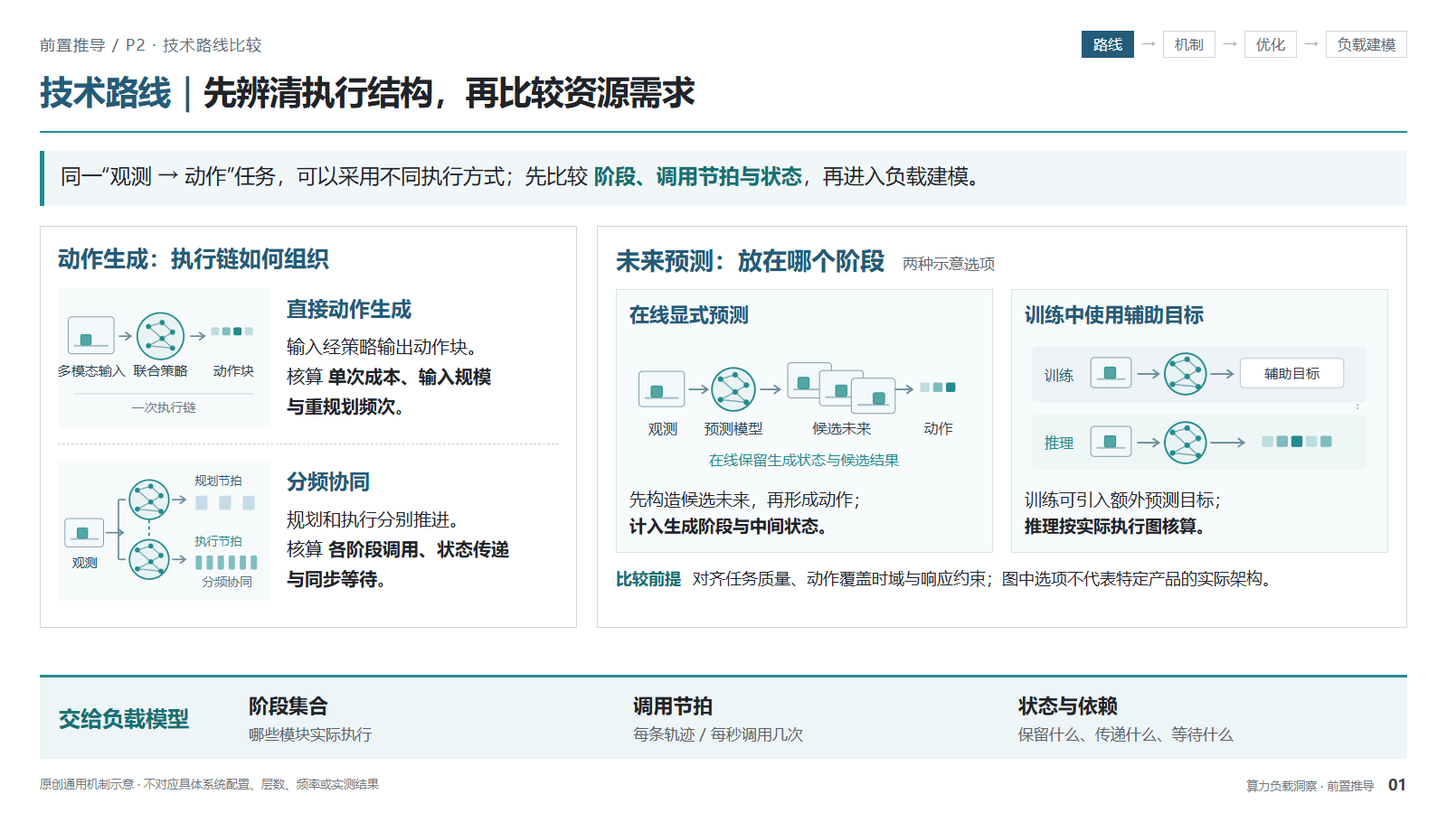
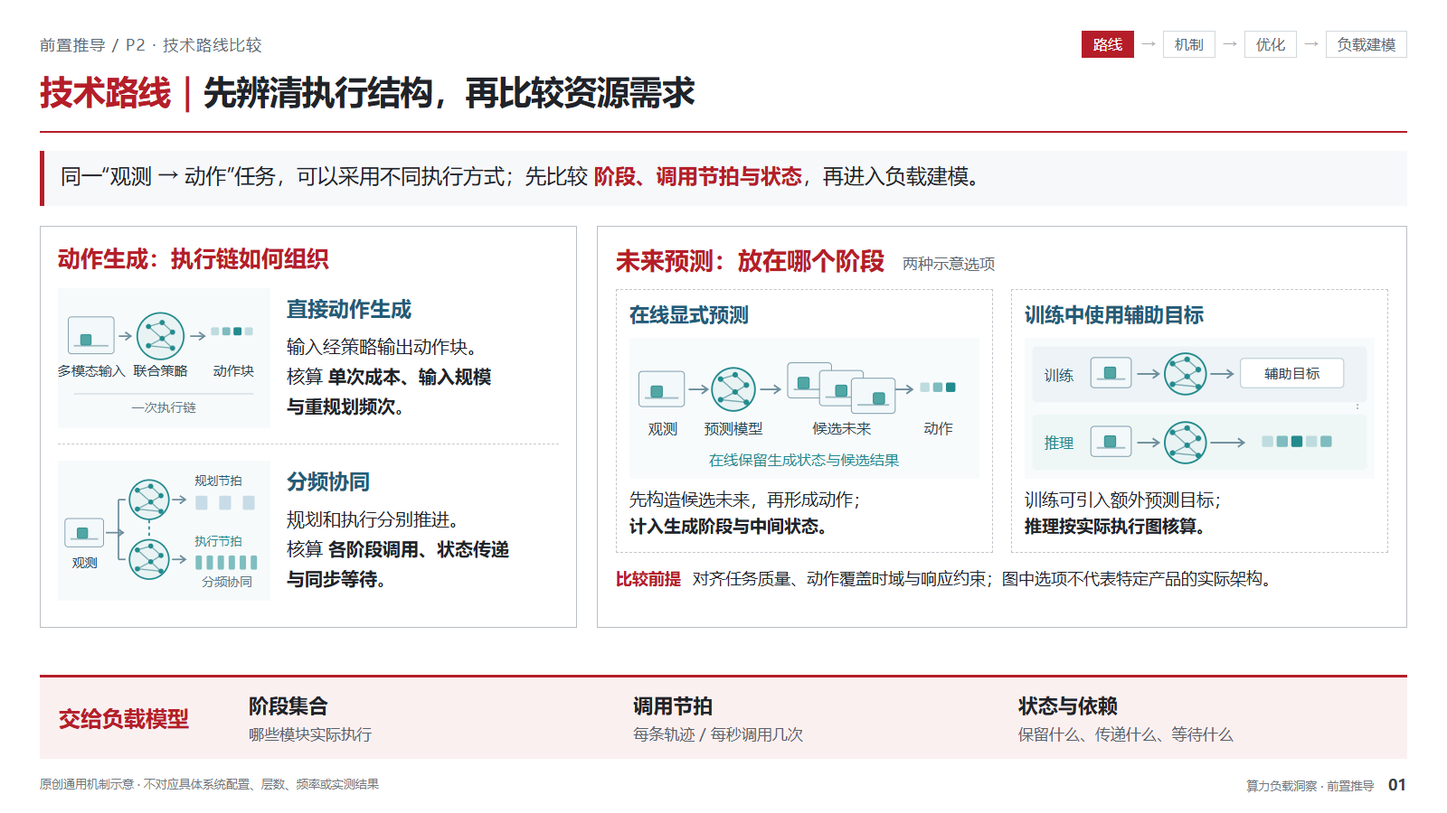
Restore original red-and-white theme while retaining redrawn figures

diff --git a/assets/prelude-examples.html b/assets/prelude-examples.html
@@ -9,7 +9,7 @@
 dialog{padding:0;border:0;width:min(1400px,94vw);max-width:94vw;height:min(840px,94vh);max-height:94vh;background:#fff;box-shadow:0 20px 90px #0005}dialog::backdrop{background:#1a202adc}.modal-head{height:64px;border-bottom:1px solid #ddd;display:flex;justify-content:space-between;align-items:center;gap:15px;padding:0 22px}.modal-head strong{font-size:19px}.modal-head button{padding:7px 15px;border:1px solid #bbb;background:#fff;border-radius:4px}.modal-image{height:calc(100% - 108px);padding:22px;background:#f5f6f7;display:flex;justify-content:center;align-items:center}.modal-image svg{max-width:100%;height:100%;width:100%}.modal-foot{height:44px;display:flex;align-items:center;justify-content:space-between;padding:0 22px;color:#676e75;font-size:15px}.modal-foot button{border:0;background:none;color:var(--red);text-decoration:underline}.capture .toolbar{display:none}.capture .stage{padding:0}.capture .slide{box-shadow:none}.capture{background:#fff}.capture .zoom-hint{display:none}@media print{@page{size:16in 9in;margin:0}body{background:white}.toolbar,.modal{display:none}.stage{display:block;padding:0}.canvas-wrap{width:1600px!important;height:auto!important}.slide{position:relative;display:block!important;transform:none!important;box-shadow:none;break-after:page}.zoom-hint{display:none}}
 
 body{font-family:"Microsoft YaHei UI","Microsoft YaHei",sans-serif}
-:root{--blue:#245b78;--red:#245b78;--pale:#edf5f6}.steps .current{background:#245b78}.rule{background:#238b8e}.insight{border-color:#238b8e;background:#f1f7f8}.insight b{color:#176f73}.panel{border-color:#cbd6db}.panel h2{color:#245b78}.handoff{border-color:#238b8e}.handoff .label{color:#176f73}.figure{background:#f7fafb}.figure svg{overflow:hidden}.route-row .figure{height:155px}.route-copy p{font-size:20px}.wam-sub{background:#f8fbfc;border:1px solid #d8e4e7}.wam-sub .figure{height:156px;background:#f8fbfc}.wam-sub p{margin-top:9px}.route-condition strong{color:#176f73}.opt .fig-wrap{height:216px;background:#f6fafb}.opt .implication{line-height:1.45;font-size:19px}.opt .mini-label{color:#6c7c85}.opt h2{font-size:26px}.optimizations{height:461px}.opt .implication b{color:#176f73}.opt .change{font-size:19px}.modal-foot{justify-content:center}.modal-image{background:#f6fafb}.newflow{display:grid;grid-template-columns:300px 856px 312px;gap:22px;height:439px}.flow-panel{padding:18px;border:1px solid #cad8de}.flow-panel h2{display:flex;gap:10px;align-items:center;font-size:23px;margin:0 0 10px;color:#243b4c}.flow-panel .number{background:#245b78}.flow-panel p{font-size:19px;line-height:1.6;margin:12px 0 0}.flow-panel .tag{font-size:16px;background:#edf4f6;color:#245b78;padding:8px 10px;text-align:center}.obs-figure{height:189px;margin:9px 0 7px}.mech-figure{height:295px;margin-top:8px}.out-figure{height:220px;margin-top:8px}.flow-note{display:flex;justify-content:space-between;gap:12px;font-size:17px;color:#566d78;margin-top:13px}.flow-note span{padding:7px 10px;background:#f1f6f8}.step-title{font-size:23px}.formula-handoff{min-height:105px}.source-tag{font-size:15px}.figure .zoom-hint{font-size:13px}.raster-free{color:#238b8e;font-size:14px;letter-spacing:0}.diagram-label{color:#657e88;font-size:15px;line-height:1.5;margin-top:8px}.route-left h2{font-size:25px}.fullwidth-insight{display:block}
+:root{--blue:#245b78;--red:#b51e29;--pale:#fbf0f0}.steps .current{background:#b51e29}.rule{background:#b51e29}.insight{border-color:#b51e29;background:#f7f8fa}.insight b{color:#b51e29}.panel{border-color:#babfc5}.panel h2{color:#b51e29}.handoff{border-color:#b51e29}.handoff .label{color:#b51e29}.figure{background:#f7fafb}.figure svg{overflow:hidden}.route-row .figure{height:155px}.route-copy p{font-size:20px}.wam-sub{background:#fff;border:1px dashed #c2c6cb}.wam-sub .figure{height:156px;background:#f8fbfc}.wam-sub p{margin-top:9px}.route-condition strong{color:#b51e29}.opt .fig-wrap{height:216px;background:#f6fafb}.opt .implication{line-height:1.45;font-size:19px}.opt .mini-label{color:#6c7c85}.opt h2{font-size:26px}.optimizations{height:461px}.opt .implication b{color:#b51e29}.opt .change{font-size:19px}.modal-foot{justify-content:center}.modal-image{background:#f6fafb}.newflow{display:grid;grid-template-columns:300px 856px 312px;gap:22px;height:439px}.flow-panel{padding:18px;border:1px solid #bfc4c9}.flow-panel h2{display:flex;gap:10px;align-items:center;font-size:23px;margin:0 0 10px;color:#202329}.flow-panel .number{background:#b51e29}.flow-panel p{font-size:19px;line-height:1.6;margin:12px 0 0}.flow-panel .tag{font-size:16px;background:#edf4f6;color:#245b78;padding:8px 10px;text-align:center}.obs-figure{height:189px;margin:9px 0 7px}.mech-figure{height:295px;margin-top:8px}.out-figure{height:220px;margin-top:8px}.flow-note{display:flex;justify-content:space-between;gap:12px;font-size:17px;color:#566d78;margin-top:13px}.flow-note span{padding:7px 10px;background:#f1f6f8}.step-title{font-size:23px}.formula-handoff{min-height:105px}.source-tag{font-size:15px}.figure .zoom-hint{font-size:13px}.raster-free{color:#238b8e;font-size:14px;letter-spacing:0}.diagram-label{color:#657e88;font-size:15px;line-height:1.5;margin-top:8px}.route-left h2{font-size:25px}.fullwidth-insight{display:block}
 </style></head><body><header class="toolbar"><div class="brand">算力负载洞察 · 原创机制图<small>通用机制示意 · 点击图示可放大</small></div><nav class="controls" aria-label="幻灯片导航"><button id="prev" aria-label="上一页">←</button><button data-page="1">01 路线</button><button data-page="2">02 机制</button><button data-page="3">03 优化</button><button id="next" aria-label="下一页">→</button><button id="print">打印 / PDF</button></nav></header><main class="stage"><div class="canvas-wrap"><section class="slide active" id="slide1" aria-label="第1页 P2 · 技术路线比较"><div class="eyebrow"><span>前置推导 / P2 · 技术路线比较</span><div class="steps"><span class="current">路线</span><i>→</i><span class="">机制</span><i>→</i><span class="">优化</span><i>→</i><span>负载建模</span></div></div><h1><em>技术路线｜</em>先辨清执行结构，再比较资源需求</h1><div class="rule"></div><div class="insight fullwidth-insight">同一“观测 → 动作”任务，可以采用不同执行方式；先比较 <b>阶段、调用节拍与状态</b>，再进入负载建模。</div><div class="main routes"><div class="panel route-left"><h2>动作生成：执行链如何组织</h2><div class="route-row"><button class="figure" data-title="直接动作生成：多模态输入经联合策略输出动作块" aria-label="放大：直接动作生成：多模态输入经联合策略输出动作块"><svg xmlns="http://www.w3.org/2000/svg" viewBox="0 0 265 165" role="img"><style>text{font-family:Microsoft YaHei,Arial,sans-serif;fill:#294451}</style><rect x="13" y="31" width="57" height="46" rx="4" fill="#f3f8fa" stroke="#7798a8"/><line x1="20" y1="67" x2="63" y2="67" stroke="#9fbbc4" stroke-width="2"/><rect x="28.45" y="53" width="13" height="13" rx="2" fill="#52a6a3" stroke="#238b8e"/><circle cx="128" cy="55" r="29" fill="#e9f3f4" stroke="#238b8e" stroke-width="2"/><line x1="113" y1="43" x2="130" y2="38" stroke="#78aab0" stroke-width="1.5"/><line x1="113" y1="43" x2="130" y2="58" stroke="#78aab0" stroke-width="1.5"/><line x1="113" y1="67" x2="130" y2="58" stroke="#78aab0" stroke-width="1.5"/><line x1="113" y1="67" x2="143" y2="70" stroke="#78aab0" stroke-width="1.5"/><line x1="130" y1="38" x2="143" y2="50" stroke="#78aab0" stroke-width="1.5"/><line x1="130" y1="58" x2="143" y2="50" stroke="#78aab0" stroke-width="1.5"/><line x1="130" y1="58" x2="143" y2="70" stroke="#78aab0" stroke-width="1.5"/><circle cx="113" cy="43" r="3.2" fill="#238b8e"/><circle cx="113" cy="67" r="3.2" fill="#238b8e"/><circle cx="130" cy="38" r="3.2" fill="#238b8e"/><circle cx="130" cy="58" r="3.2" fill="#238b8e"/><circle cx="143" cy="50" r="3.2" fill="#238b8e"/><circle cx="143" cy="70" r="3.2" fill="#238b8e"/><rect x="191" y="44" width="10" height="10" rx="2" fill="#bedcdf" stroke="none"/><rect x="205" y="44" width="10" height="10" rx="2" fill="#7ebcbf" stroke="none"/><rect x="219" y="44" width="10" height="10" rx="2" fill="#238b8e" stroke="none"/><rect x="233" y="44" width="10" height="10" rx="2" fill="#bedcdf" stroke="none"/><line x1="76" y1="55" x2="91" y2="55" stroke="#6c8d9c" stroke-width="2"/><path d="M84,50 L91,55 L84,60" fill="none" stroke="#6c8d9c" stroke-width="2"/><line x1="165" y1="55" x2="183" y2="55" stroke="#6c8d9c" stroke-width="2"/><path d="M176,50 L183,55 L176,60" fill="none" stroke="#6c8d9c" stroke-width="2"/><text x="42" y="104" text-anchor="middle" font-size="17" font-weight="400" style="fill:#294451">多模态输入</text><text x="128" y="104" text-anchor="middle" font-size="17" font-weight="400" style="fill:#294451">联合策略</text><text x="219" y="104" text-anchor="middle" font-size="17" font-weight="400" style="fill:#294451">动作块</text><line x1="20" y1="127" x2="244" y2="127" stroke="#bfd0d7" stroke-width="1"/><text x="132" y="150" text-anchor="middle" font-size="16" font-weight="400" style="fill:#5d7986">一次执行链</text></svg><span class="zoom-hint">↗ 放大示意图</span></button><div class="route-copy"><h3>直接动作生成</h3><p>输入经策略输出动作块。<br>核算 <strong>单次成本、输入规模<br>与重规划频次</strong>。</p></div></div><div class="route-row"><button class="figure" data-title="分频协同：规划与控制采用不同节拍" aria-label="放大：分频协同：规划与控制采用不同节拍"><svg xmlns="http://www.w3.org/2000/svg" viewBox="0 0 270 165" role="img"><style>text{font-family:Microsoft YaHei,Arial,sans-serif;fill:#294451}</style><rect x="9" y="67" width="49" height="36" rx="4" fill="#f3f8fa" stroke="#7798a8"/><line x1="16" y1="93" x2="51" y2="93" stroke="#9fbbc4" stroke-width="2"/><rect x="24.75" y="79" width="13" height="13" rx="2" fill="#52a6a3" stroke="#238b8e"/><line x1="61" y1="85" x2="83" y2="85" stroke="#6c8d9c" stroke-width="2"/><path d="M76,80 L83,85 L76,90" fill="none" stroke="#6c8d9c" stroke-width="2"/><circle cx="116" cy="43" r="25" fill="#e9f3f4" stroke="#238b8e" stroke-width="2"/><line x1="101" y1="31" x2="118" y2="26" stroke="#78aab0" stroke-width="1.5"/><line x1="101" y1="31" x2="118" y2="46" stroke="#78aab0" stroke-width="1.5"/><line x1="101" y1="55" x2="118" y2="46" stroke="#78aab0" stroke-width="1.5"/><line x1="101" y1="55" x2="131" y2="58" stroke="#78aab0" stroke-width="1.5"/><line x1="118" y1="26" x2="131" y2="38" stroke="#78aab0" stroke-width="1.5"/><line x1="118" y1="46" x2="131" y2="38" stroke="#78aab0" stroke-width="1.5"/><line x1="118" y1="46" x2="131" y2="58" stroke="#78aab0" stroke-width="1.5"/><circle cx="101" cy="31" r="3.2" fill="#238b8e"/><circle cx="101" cy="55" r="3.2" fill="#238b8e"/><circle cx="118" cy="26" r="3.2" fill="#238b8e"/><circle cx="118" cy="46" r="3.2" fill="#238b8e"/><circle cx="131" cy="38" r="3.2" fill="#238b8e"/><circle cx="131" cy="58" r="3.2" fill="#238b8e"/><circle cx="116" cy="119" r="25" fill="#e9f3f4" stroke="#238b8e" stroke-width="2"/><line x1="101" y1="107" x2="118" y2="102" stroke="#78aab0" stroke-width="1.5"/><line x1="101" y1="107" x2="118" y2="122" stroke="#78aab0" stroke-width="1.5"/><line x1="101" y1="131" x2="118" y2="122" stroke="#78aab0" stroke-width="1.5"/><line x1="101" y1="131" x2="131" y2="134" stroke="#78aab0" stroke-width="1.5"/><line x1="118" y1="102" x2="131" y2="114" stroke="#78aab0" stroke-width="1.5"/><line x1="118" y1="122" x2="131" y2="114" stroke="#78aab0" stroke-width="1.5"/><line x1="118" y1="122" x2="131" y2="134" stroke="#78aab0" stroke-width="1.5"/><circle cx="101" cy="107" r="3.2" fill="#238b8e"/><circle cx="101" cy="131" r="3.2" fill="#238b8e"/><circle cx="118" cy="102" r="3.2" fill="#238b8e"/><circle cx="118" cy="122" r="3.2" fill="#238b8e"/><circle cx="131" cy="114" r="3.2" fill="#238b8e"/><circle cx="131" cy="134" r="3.2" fill="#238b8e"/><line x1="77" y1="43" x2="77" y2="119" stroke="#6c8d9c" stroke-width="2"/><line x1="77" y1="43" x2="86" y2="43" stroke="#6c8d9c" stroke-width="2"/><line x1="77" y1="119" x2="86" y2="119" stroke="#6c8d9c" stroke-width="2"/><line x1="116" y1="69" x2="116" y2="89" stroke="#238b8e" stroke-width="2" stroke-dasharray="4 4"/><text x="174" y="25" text-anchor="start" font-size="15" font-weight="400" style="fill:#245b78">规划节拍</text><text x="174" y="101" text-anchor="start" font-size="15" font-weight="400" style="fill:#238b8e">执行节拍</text><line x1="145" y1="43" x2="162" y2="43" stroke="#6c8d9c" stroke-width="2"/><path d="M155,38 L162,43 L155,48" fill="none" stroke="#6c8d9c" stroke-width="2"/><line x1="145" y1="119" x2="162" y2="119" stroke="#6c8d9c" stroke-width="2"/><path d="M155,114 L162,119 L155,124" fill="none" stroke="#6c8d9c" stroke-width="2"/><rect x="175" y="38" width="15" height="18" rx="2" fill="#c7dce7" stroke="none"/><rect x="205" y="38" width="15" height="18" rx="2" fill="#c7dce7" stroke="none"/><rect x="235" y="38" width="15" height="18" rx="2" fill="#c7dce7" stroke="none"/><rect x="175" y="114" width="8" height="18" rx="2" fill="#7fbec0" stroke="none"/><rect x="189" y="114" width="8" height="18" rx="2" fill="#7fbec0" stroke="none"/><rect x="203" y="114" width="8" height="18" rx="2" fill="#7fbec0" stroke="none"/><rect x="217" y="114" width="8" height="18" rx="2" fill="#7fbec0" stroke="none"/><rect x="231" y="114" width="8" height="18" rx="2" fill="#7fbec0" stroke="none"/><rect x="245" y="114" width="8" height="18" rx="2" fill="#7fbec0" stroke="none"/><text x="34" y="129" text-anchor="middle" font-size="16" font-weight="400" style="fill:#294451">观测</text><text x="215" y="153" text-anchor="middle" font-size="16" font-weight="400" style="fill:#5d7986">分频协同</text></svg><span class="zoom-hint">↗ 放大示意图</span></button><div class="route-copy"><h3>分频协同</h3><p>规划和执行分别推进。<br>核算 <strong>各阶段调用、状态传递<br>与同步等待</strong>。</p></div></div></div><div class="panel"><h2>未来预测：放在哪个阶段 <span>两种示意选项</span></h2><div class="wam-grid"><div class="wam-sub"><h3>在线显式预测</h3><button class="figure" data-title="在线预测：观测、预测模型、候选未来与动作选择" aria-label="放大：在线预测：观测、预测模型、候选未来与动作选择"><svg xmlns="http://www.w3.org/2000/svg" viewBox="0 0 405 164" role="img"><style>text{font-family:Microsoft YaHei,Arial,sans-serif;fill:#294451}</style><rect x="10" y="39" width="53" height="41" rx="4" fill="#f3f8fa" stroke="#7798a8"/><line x1="17" y1="70" x2="56" y2="70" stroke="#9fbbc4" stroke-width="2"/><rect x="24.28" y="56" width="13" height="13" rx="2" fill="#52a6a3" stroke="#238b8e"/><line x1="68" y1="60" x2="90" y2="60" stroke="#6c8d9c" stroke-width="2"/><path d="M83,55 L90,60 L83,65" fill="none" stroke="#6c8d9c" stroke-width="2"/><circle cx="120" cy="60" r="25" fill="#e9f3f4" stroke="#238b8e" stroke-width="2"/><line x1="105" y1="48" x2="122" y2="43" stroke="#78aab0" stroke-width="1.5"/><line x1="105" y1="48" x2="122" y2="63" stroke="#78aab0" stroke-width="1.5"/><line x1="105" y1="72" x2="122" y2="63" stroke="#78aab0" stroke-width="1.5"/><line x1="105" y1="72" x2="135" y2="75" stroke="#78aab0" stroke-width="1.5"/><line x1="122" y1="43" x2="135" y2="55" stroke="#78aab0" stroke-width="1.5"/><line x1="122" y1="63" x2="135" y2="55" stroke="#78aab0" stroke-width="1.5"/><line x1="122" y1="63" x2="135" y2="75" stroke="#78aab0" stroke-width="1.5"/><circle cx="105" cy="48" r="3.2" fill="#238b8e"/><circle cx="105" cy="72" r="3.2" fill="#238b8e"/><circle cx="122" cy="43" r="3.2" fill="#238b8e"/><circle cx="122" cy="63" r="3.2" fill="#238b8e"/><circle cx="135" cy="55" r="3.2" fill="#238b8e"/><circle cx="135" cy="75" r="3.2" fill="#238b8e"/><line x1="151" y1="60" x2="174" y2="60" stroke="#6c8d9c" stroke-width="2"/><path d="M167,55 L174,60 L167,65" fill="none" stroke="#6c8d9c" stroke-width="2"/><rect x="183" y="29" width="51" height="41" rx="4" fill="#f3f8fa" stroke="#7798a8"/><line x1="190" y1="60" x2="227" y2="60" stroke="#9fbbc4" stroke-width="2"/><rect x="195.0" y="46" width="13" height="13" rx="2" fill="#52a6a3" stroke="#238b8e"/><rect x="220" y="38" width="51" height="41" rx="4" fill="#f3f8fa" stroke="#7798a8"/><line x1="227" y1="69" x2="264" y2="69" stroke="#9fbbc4" stroke-width="2"/><rect x="238.8" y="55" width="13" height="13" rx="2" fill="#52a6a3" stroke="#238b8e"/><rect x="257" y="47" width="51" height="41" rx="4" fill="#f3f8fa" stroke="#7798a8"/><line x1="264" y1="78" x2="301" y2="78" stroke="#9fbbc4" stroke-width="2"/><rect x="282.6" y="64" width="13" height="13" rx="2" fill="#52a6a3" stroke="#238b8e"/><line x1="308" y1="60" x2="328" y2="60" stroke="#6c8d9c" stroke-width="2"/><path d="M321,55 L328,60 L321,65" fill="none" stroke="#6c8d9c" stroke-width="2"/><rect x="337" y="52" width="11" height="11" rx="2" fill="#bedcdf" stroke="none"/><rect x="352" y="52" width="11" height="11" rx="2" fill="#7ebcbf" stroke="none"/><rect x="367" y="52" width="11" height="11" rx="2" fill="#238b8e" stroke="none"/><text x="38" y="111" text-anchor="middle" font-size="17" font-weight="400" style="fill:#294451">观测</text><text x="120" y="111" text-anchor="middle" font-size="17" font-weight="400" style="fill:#294451">预测模型</text><text x="246" y="111" text-anchor="middle" font-size="17" font-weight="400" style="fill:#294451">候选未来</text><text x="358" y="111" text-anchor="middle" font-size="17" font-weight="400" style="fill:#294451">动作</text><text x="202" y="148" text-anchor="middle" font-size="17" font-weight="400" style="fill:#238b8e">在线保留生成状态与候选结果</text></svg><span class="zoom-hint">↗ 放大示意图</span></button><p>先构造候选未来，再形成动作；<br><b>计入生成阶段与中间状态。</b></p></div><div class="wam-sub"><h3>训练中使用辅助目标</h3><button class="figure" data-title="训练与推理分开表示：训练辅助目标不自动进入在线执行" aria-label="放大：训练与推理分开表示：训练辅助目标不自动进入在线执行"><svg xmlns="http://www.w3.org/2000/svg" viewBox="0 0 405 164" role="img"><style>text{font-family:Microsoft YaHei,Arial,sans-serif;fill:#294451}</style><rect x="8" y="10" width="389" height="65" rx="5" fill="#edf3f6" stroke="none"/><text x="39" y="49" text-anchor="middle" font-size="17" font-weight="400" style="fill:#245b78">训练</text><rect x="76" y="23" width="47" height="35" rx="4" fill="#f3f8fa" stroke="#7798a8"/><line x1="83" y1="48" x2="116" y2="48" stroke="#9fbbc4" stroke-width="2"/><rect x="91.9" y="34" width="13" height="13" rx="2" fill="#52a6a3" stroke="#238b8e"/><line x1="130" y1="42" x2="155" y2="42" stroke="#6c8d9c" stroke-width="2"/><path d="M148,37 L155,42 L148,47" fill="none" stroke="#6c8d9c" stroke-width="2"/><circle cx="186" cy="42" r="24" fill="#e9f3f4" stroke="#238b8e" stroke-width="2"/><line x1="171" y1="30" x2="188" y2="25" stroke="#78aab0" stroke-width="1.5"/><line x1="171" y1="30" x2="188" y2="45" stroke="#78aab0" stroke-width="1.5"/><line x1="171" y1="54" x2="188" y2="45" stroke="#78aab0" stroke-width="1.5"/><line x1="171" y1="54" x2="201" y2="57" stroke="#78aab0" stroke-width="1.5"/><line x1="188" y1="25" x2="201" y2="37" stroke="#78aab0" stroke-width="1.5"/><line x1="188" y1="45" x2="201" y2="37" stroke="#78aab0" stroke-width="1.5"/><line x1="188" y1="45" x2="201" y2="57" stroke="#78aab0" stroke-width="1.5"/><circle cx="171" cy="30" r="3.2" fill="#238b8e"/><circle cx="171" cy="54" r="3.2" fill="#238b8e"/><circle cx="188" cy="25" r="3.2" fill="#238b8e"/><circle cx="188" cy="45" r="3.2" fill="#238b8e"/><circle cx="201" cy="37" r="3.2" fill="#238b8e"/><circle cx="201" cy="57" r="3.2" fill="#238b8e"/><line x1="215" y1="42" x2="241" y2="42" stroke="#6c8d9c" stroke-width="2"/><path d="M234,37 L241,42 L234,47" fill="none" stroke="#6c8d9c" stroke-width="2"/><rect x="250" y="24" width="120" height="34" rx="4" fill="#fff" stroke="#b1c6cf"/><text x="310" y="47" text-anchor="middle" font-size="16" font-weight="400" style="fill:#294451">辅助目标</text><rect x="8" y="89" width="389" height="65" rx="5" fill="#eef7f5" stroke="none"/><text x="39" y="128" text-anchor="middle" font-size="17" font-weight="400" style="fill:#238b8e">推理</text><rect x="76" y="103" width="47" height="35" rx="4" fill="#f3f8fa" stroke="#7798a8"/><line x1="83" y1="128" x2="116" y2="128" stroke="#9fbbc4" stroke-width="2"/><rect x="91.9" y="114" width="13" height="13" rx="2" fill="#52a6a3" stroke="#238b8e"/><line x1="130" y1="122" x2="155" y2="122" stroke="#6c8d9c" stroke-width="2"/><path d="M148,117 L155,122 L148,127" fill="none" stroke="#6c8d9c" stroke-width="2"/><circle cx="186" cy="122" r="24" fill="#e9f3f4" stroke="#238b8e" stroke-width="2"/><line x1="171" y1="110" x2="188" y2="105" stroke="#78aab0" stroke-width="1.5"/><line x1="171" y1="110" x2="188" y2="125" stroke="#78aab0" stroke-width="1.5"/><line x1="171" y1="134" x2="188" y2="125" stroke="#78aab0" stroke-width="1.5"/><line x1="171" y1="134" x2="201" y2="137" stroke="#78aab0" stroke-width="1.5"/><line x1="188" y1="105" x2="201" y2="117" stroke="#78aab0" stroke-width="1.5"/><line x1="188" y1="125" x2="201" y2="117" stroke="#78aab0" stroke-width="1.5"/><line x1="188" y1="125" x2="201" y2="137" stroke="#78aab0" stroke-width="1.5"/><circle cx="171" cy="110" r="3.2" fill="#238b8e"/><circle cx="171" cy="134" r="3.2" fill="#238b8e"/><circle cx="188" cy="105" r="3.2" fill="#238b8e"/><circle cx="188" cy="125" r="3.2" fill="#238b8e"/><circle cx="201" cy="117" r="3.2" fill="#238b8e"/><circle cx="201" cy="137" r="3.2" fill="#238b8e"/><line x1="215" y1="122" x2="254" y2="122" stroke="#6c8d9c" stroke-width="2"/><path d="M247,117 L254,122 L247,127" fill="none" stroke="#6c8d9c" stroke-width="2"/><rect x="275" y="114" width="13" height="13" rx="2" fill="#bedcdf" stroke="none"/><rect x="292" y="114" width="13" height="13" rx="2" fill="#7ebcbf" stroke="none"/><rect x="309" y="114" width="13" height="13" rx="2" fill="#238b8e" stroke="none"/><rect x="326" y="114" width="13" height="13" rx="2" fill="#bedcdf" stroke="none"/><rect x="343" y="114" width="13" height="13" rx="2" fill="#7ebcbf" stroke="none"/><line x1="386" y1="77" x2="386" y2="84" stroke="#9db8c3" stroke-width="2" stroke-dasharray="2 2"/></svg><span class="zoom-hint">↗ 放大示意图</span></button><p>训练可引入额外预测目标；<br><b>推理按实际执行图核算。</b></p></div></div><div class="route-condition"><strong>比较前提</strong><span>对齐任务质量、动作覆盖时域与响应约束；图中选项不代表特定产品的实际架构。</span></div></div></div><div class="handoff route-handoff"><div class="label">交给负载模型</div><div class="body"><div><b>阶段集合</b><small>哪些模块实际执行</small></div><div><b>调用节拍</b><small>每条轨迹 / 每秒调用几次</small></div><div><b>状态与依赖</b><small>保留什么、传递什么、等待什么</small></div></div></div><footer><span>原创通用机制示意 · 不对应具体系统配置、层数、频率或实测结果</span><span>算力负载洞察 · 前置推导 <b>01</b></span></footer></section><section class="slide " id="slide2" aria-label="第2页 P3 · 生成过程拆解"><div class="eyebrow"><span>前置推导 / P3 · 生成过程拆解</span><div class="steps"><span class="">路线</span><i>→</i><span class="current">机制</span><i>→</i><span class="">优化</span><i>→</i><span>负载建模</span></div></div><h1><em>生成机制｜</em>沿输入、迭代和输出拆分工作量</h1><div class="rule"></div><div class="insight fullwidth-insight">以“视频与动作联合生成”的抽象流程为例，分别记录 <b>条件编码、重复生成、解码与后处理</b> 的成本。</div><div class="main newflow"><div class="flow-panel"><h2><span class="number">1</span>条件与观测</h2><div class="tag">任务示意：操作桌面物体</div><div class="obs-figure"><button class="figure" data-title="原创抽象操作场景：相机、机械臂、物体与状态编码" aria-label="放大：原创抽象操作场景：相机、机械臂、物体与状态编码"><svg xmlns="http://www.w3.org/2000/svg" viewBox="0 0 290 241" role="img"><style>text{font-family:Microsoft YaHei,Arial,sans-serif;fill:#294451}</style><rect x="7" y="9" width="276" height="162" rx="8" fill="#f2f8fa" stroke="none"/><path d="M25 129 L230 129 L269 151 L67 151 Z" fill="#d9e6eb" stroke="#a4bbc7"/><line x1="83" y1="128" x2="65" y2="92" stroke="#245b78" stroke-width="14"/><line x1="65" y1="92" x2="127" y2="60" stroke="#245b78" stroke-width="12"/><line x1="127" y1="60" x2="184" y2="94" stroke="#438ba0" stroke-width="9"/><circle cx="83" cy="128" r="9" fill="#fff" stroke="#245b78" stroke-width="3"/><circle cx="65" cy="92" r="10" fill="#fff" stroke="#245b78" stroke-width="3"/><circle cx="127" cy="60" r="9" fill="#fff" stroke="#245b78" stroke-width="3"/><circle cx="184" cy="94" r="6" fill="#fff" stroke="#245b78" stroke-width="3"/><line x1="184" y1="98" x2="184" y2="113" stroke="#245b78" stroke-width="4"/><path d="M174 111 L174 119 M194 111 L194 119 M174 111 L194 111" stroke="#245b78" stroke-width="3" fill="none"/><rect x="180" y="127" width="27" height="22" rx="2" fill="#51a9a4" stroke="#238b8e"/><path d="M37 37 L84 70 L56 102 Z" fill="#b8e0df" fill-opacity=".5"/><rect x="20" y="24" width="35" height="23" rx="4" fill="#245b78" stroke="none"/><circle cx="37" cy="35" r="7" fill="#fff"/><text x="210" y="32" text-anchor="middle" font-size="16" font-weight="400" style="fill:#6b8794">抽象场景</text><text x="145" y="193" text-anchor="middle" font-size="17" font-weight="400" style="fill:#294451">视觉观测 + 任务条件 + 本体状态</text><rect x="30" y="211" width="18" height="18" rx="2" fill="#bedcdf" stroke="none"/><rect x="52" y="211" width="18" height="18" rx="2" fill="#7ebcbf" stroke="none"/><rect x="74" y="211" width="18" height="18" rx="2" fill="#238b8e" stroke="none"/><rect x="96" y="211" width="18" height="18" rx="2" fill="#bedcdf" stroke="none"/><rect x="118" y="211" width="18" height="18" rx="2" fill="#7ebcbf" stroke="none"/><rect x="140" y="211" width="18" height="18" rx="2" fill="#238b8e" stroke="none"/><rect x="162" y="211" width="18" height="18" rx="2" fill="#bedcdf" stroke="none"/><rect x="184" y="211" width="18" height="18" rx="2" fill="#7ebcbf" stroke="none"/></svg><span class="zoom-hint">↗ 放大示意图</span></button></div><p>输入形态决定编码成本：<br><b>观测数量、表示规模<br>与本体状态维度</b>。</p><div class="diagram-label">场景为几何示意，不代表具体设备。</div></div><div class="flow-panel"><h2><span class="number">2</span>表示更新与重复生成</h2><div class="mech-figure"><button class="figure" data-title="通用生成流程：条件编码、初始化表示、重复模型执行与状态更新" aria-label="放大：通用生成流程：条件编码、初始化表示、重复模型执行与状态更新"><svg xmlns="http://www.w3.org/2000/svg" viewBox="0 0 790 344" role="img"><style>text{font-family:Microsoft YaHei,Arial,sans-serif;fill:#294451}</style><rect x="12" y="8" width="768" height="40" rx="5" fill="#edf4f7" stroke="none"/><text x="393" y="35" text-anchor="middle" font-size="20" font-weight="400" style="fill:#294451">条件编码：文本 / 视觉 / 状态</text><line x1="390" y1="49" x2="390" y2="74" stroke="#6a939e" stroke-width="2"/><path d="M384 67 L390 75 L396 67" fill="none" stroke="#6a939e" stroke-width="2"/><rect x="28" y="111" width="14" height="14" rx="1" fill="#a5b7c1" stroke="none"/><rect x="45" y="111" width="14" height="14" rx="1" fill="#a5b7c1" stroke="none"/><rect x="62" y="111" width="14" height="14" rx="1" fill="#a5b7c1" stroke="none"/><rect x="79" y="111" width="14" height="14" rx="1" fill="#6d91a4" stroke="none"/><rect x="96" y="111" width="14" height="14" rx="1" fill="#6d91a4" stroke="none"/><rect x="113" y="111" width="14" height="14" rx="1" fill="#ccd9e0" stroke="none"/><rect x="28" y="128" width="14" height="14" rx="1" fill="#6d91a4" stroke="none"/><rect x="45" y="128" width="14" height="14" rx="1" fill="#ccd9e0" stroke="none"/><rect x="62" y="128" width="14" height="14" rx="1" fill="#ccd9e0" stroke="none"/><rect x="79" y="128" width="14" height="14" rx="1" fill="#a5b7c1" stroke="none"/><rect x="96" y="128" width="14" height="14" rx="1" fill="#a5b7c1" stroke="none"/><rect x="113" y="128" width="14" height="14" rx="1" fill="#a5b7c1" stroke="none"/><rect x="28" y="145" width="14" height="14" rx="1" fill="#a5b7c1" stroke="none"/><rect x="45" y="145" width="14" height="14" rx="1" fill="#a5b7c1" stroke="none"/><rect x="62" y="145" width="14" height="14" rx="1" fill="#6d91a4" stroke="none"/><rect x="79" y="145" width="14" height="14" rx="1" fill="#6d91a4" stroke="none"/><rect x="96" y="145" width="14" height="14" rx="1" fill="#ccd9e0" stroke="none"/><rect x="113" y="145" width="14" height="14" rx="1" fill="#ccd9e0" stroke="none"/><rect x="28" y="162" width="14" height="14" rx="1" fill="#ccd9e0" stroke="none"/><rect x="45" y="162" width="14" height="14" rx="1" fill="#ccd9e0" stroke="none"/><rect x="62" y="162" width="14" height="14" rx="1" fill="#a5b7c1" stroke="none"/><rect x="79" y="162" width="14" height="14" rx="1" fill="#a5b7c1" stroke="none"/><rect x="96" y="162" width="14" height="14" rx="1" fill="#a5b7c1" stroke="none"/><rect x="113" y="162" width="14" height="14" rx="1" fill="#6d91a4" stroke="none"/><rect x="28" y="198" width="14" height="14" rx="2" fill="#bedcdf" stroke="none"/><rect x="46" y="198" width="14" height="14" rx="2" fill="#7ebcbf" stroke="none"/><rect x="64" y="198" width="14" height="14" rx="2" fill="#238b8e" stroke="none"/><rect x="82" y="198" width="14" height="14" rx="2" fill="#bedcdf" stroke="none"/><rect x="100" y="198" width="14" height="14" rx="2" fill="#7ebcbf" stroke="none"/><rect x="118" y="198" width="14" height="14" rx="2" fill="#238b8e" stroke="none"/><text x="84" y="251" text-anchor="middle" font-size="18" font-weight="400" style="fill:#294451">初始化表示</text><line x1="145" y1="150" x2="191" y2="150" stroke="#6c8d9c" stroke-width="2"/><path d="M184,145 L191,150 L184,155" fill="none" stroke="#6c8d9c" stroke-width="2"/><rect x="206" y="89" width="332" height="144" rx="8" fill="#f4f9fa" stroke="#91b2bd"/><rect x="227" y="130" width="43" height="51" rx="4" fill="#dcecf0" stroke="#739ba9"/><line x1="235" y1="142" x2="262" y2="142" stroke="#3d8591" stroke-width="3"/><line x1="235" y1="155" x2="262" y2="155" stroke="#3d8591" stroke-width="3"/><line x1="235" y1="168" x2="262" y2="168" stroke="#3d8591" stroke-width="3"/><rect x="302" y="130" width="43" height="51" rx="4" fill="#dcecf0" stroke="#739ba9"/><line x1="310" y1="142" x2="337" y2="142" stroke="#3d8591" stroke-width="3"/><line x1="310" y1="155" x2="337" y2="155" stroke="#3d8591" stroke-width="3"/><line x1="310" y1="168" x2="337" y2="168" stroke="#3d8591" stroke-width="3"/><rect x="377" y="130" width="43" height="51" rx="4" fill="#dcecf0" stroke="#739ba9"/><line x1="385" y1="142" x2="412" y2="142" stroke="#3d8591" stroke-width="3"/><line x1="385" y1="155" x2="412" y2="155" stroke="#3d8591" stroke-width="3"/><line x1="385" y1="168" x2="412" y2="168" stroke="#3d8591" stroke-width="3"/><rect x="452" y="130" width="43" height="51" rx="4" fill="#dcecf0" stroke="#739ba9"/><line x1="460" y1="142" x2="487" y2="142" stroke="#3d8591" stroke-width="3"/><line x1="460" y1="155" x2="487" y2="155" stroke="#3d8591" stroke-width="3"/><line x1="460" y1="168" x2="487" y2="168" stroke="#3d8591" stroke-width="3"/><line x1="273" y1="154" x2="297" y2="154" stroke="#6c8d9c" stroke-width="2"/><path d="M290,149 L297,154 L290,159" fill="none" stroke="#6c8d9c" stroke-width="2"/><line x1="348" y1="154" x2="372" y2="154" stroke="#6c8d9c" stroke-width="2"/><path d="M365,149 L372,154 L365,159" fill="none" stroke="#6c8d9c" stroke-width="2"/><line x1="423" y1="154" x2="447" y2="154" stroke="#6c8d9c" stroke-width="2"/><path d="M440,149 L447,154 L440,159" fill="none" stroke="#6c8d9c" stroke-width="2"/><text x="372" y="116" text-anchor="middle" font-size="19" font-weight="600" style="fill:#245b78">生成模型的重复执行</text><text x="372" y="210" text-anchor="middle" font-size="17" font-weight="400" style="fill:#587984">单步成本 Cstep · 表示规模 Lv / La</text><line x1="548" y1="150" x2="594" y2="150" stroke="#6c8d9c" stroke-width="2"/><path d="M587,145 L594,150 L587,155" fill="none" stroke="#6c8d9c" stroke-width="2"/><rect x="615" y="110" width="14" height="14" rx="1" fill="#cae5e4" stroke="none"/><rect x="632" y="110" width="14" height="14" rx="1" fill="#cae5e4" stroke="none"/><rect x="649" y="110" width="14" height="14" rx="1" fill="#cae5e4" stroke="none"/><rect x="666" y="110" width="14" height="14" rx="1" fill="#238b8e" stroke="none"/><rect x="683" y="110" width="14" height="14" rx="1" fill="#cae5e4" stroke="none"/><rect x="700" y="110" width="14" height="14" rx="1" fill="#cae5e4" stroke="none"/><rect x="615" y="127" width="14" height="14" rx="1" fill="#cae5e4" stroke="none"/><rect x="632" y="127" width="14" height="14" rx="1" fill="#cae5e4" stroke="none"/><rect x="649" y="127" width="14" height="14" rx="1" fill="#238b8e" stroke="none"/><rect x="666" y="127" width="14" height="14" rx="1" fill="#cae5e4" stroke="none"/><rect x="683" y="127" width="14" height="14" rx="1" fill="#cae5e4" stroke="none"/><rect x="700" y="127" width="14" height="14" rx="1" fill="#cae5e4" stroke="none"/><rect x="615" y="144" width="14" height="14" rx="1" fill="#cae5e4" stroke="none"/><rect x="632" y="144" width="14" height="14" rx="1" fill="#238b8e" stroke="none"/><rect x="649" y="144" width="14" height="14" rx="1" fill="#cae5e4" stroke="none"/><rect x="666" y="144" width="14" height="14" rx="1" fill="#cae5e4" stroke="none"/><rect x="683" y="144" width="14" height="14" rx="1" fill="#cae5e4" stroke="none"/><rect x="700" y="144" width="14" height="14" rx="1" fill="#238b8e" stroke="none"/><rect x="615" y="161" width="14" height="14" rx="1" fill="#238b8e" stroke="none"/><rect x="632" y="161" width="14" height="14" rx="1" fill="#cae5e4" stroke="none"/><rect x="649" y="161" width="14" height="14" rx="1" fill="#cae5e4" stroke="none"/><rect x="666" y="161" width="14" height="14" rx="1" fill="#cae5e4" stroke="none"/><rect x="683" y="161" width="14" height="14" rx="1" fill="#238b8e" stroke="none"/><rect x="700" y="161" width="14" height="14" rx="1" fill="#cae5e4" stroke="none"/><rect x="615" y="198" width="14" height="14" rx="2" fill="#bedcdf" stroke="none"/><rect x="633" y="198" width="14" height="14" rx="2" fill="#7ebcbf" stroke="none"/><rect x="651" y="198" width="14" height="14" rx="2" fill="#238b8e" stroke="none"/><rect x="669" y="198" width="14" height="14" rx="2" fill="#bedcdf" stroke="none"/><rect x="687" y="198" width="14" height="14" rx="2" fill="#7ebcbf" stroke="none"/><rect x="705" y="198" width="14" height="14" rx="2" fill="#238b8e" stroke="none"/><text x="669" y="251" text-anchor="middle" font-size="18" font-weight="400" style="fill:#294451">更新后表示</text><path d="M555 249 L555 283 L190 283 L190 178" fill="none" stroke="#238b8e" stroke-width="3"/><path d="M184 186 L190 177 L196 186" fill="none" stroke="#238b8e" stroke-width="3"/><rect x="263" y="265" width="243" height="34" rx="0" fill="#f7fafb" stroke="none"/><text x="385" y="288" text-anchor="middle" font-size="18" font-weight="400" style="fill:#176f73">按求解器要求重复 S 次</text><text x="390" y="327" text-anchor="middle" font-size="15" font-weight="400" style="fill:#718993">方块数量仅为示意，不代表具体层数或实际迭代步数</text></svg><span class="zoom-hint">↗ 放大示意图</span></button></div><div class="flow-note"><span>视频潜变量 / 动作表示</span><span>重复次数由具体实现决定</span></div></div><div class="flow-panel"><h2><span class="number">3</span>解码与时间对齐</h2><div class="out-figure"><button class="figure" data-title="输出示意：帧序列与时间对齐的动作序列" aria-label="放大：输出示意：帧序列与时间对齐的动作序列"><svg xmlns="http://www.w3.org/2000/svg" viewBox="0 0 272 253" role="img"><style>text{font-family:Microsoft YaHei,Arial,sans-serif;fill:#294451}</style><rect x="10" y="24" width="77" height="62" rx="4" fill="#f3f8fa" stroke="#7798a8"/><line x1="17" y1="76" x2="80" y2="76" stroke="#9fbbc4" stroke-width="2"/><rect x="22.0" y="62" width="13" height="13" rx="2" fill="#52a6a3" stroke="#238b8e"/><rect x="96" y="24" width="77" height="62" rx="4" fill="#f3f8fa" stroke="#7798a8"/><line x1="103" y1="76" x2="166" y2="76" stroke="#9fbbc4" stroke-width="2"/><rect x="125.2" y="62" width="13" height="13" rx="2" fill="#52a6a3" stroke="#238b8e"/><rect x="182" y="24" width="77" height="62" rx="4" fill="#f3f8fa" stroke="#7798a8"/><line x1="189" y1="76" x2="252" y2="76" stroke="#9fbbc4" stroke-width="2"/><rect x="228.4" y="62" width="13" height="13" rx="2" fill="#52a6a3" stroke="#238b8e"/><text x="47" y="110" text-anchor="middle" font-size="15" font-weight="400" style="fill:#294451">t</text><text x="133" y="110" text-anchor="middle" font-size="15" font-weight="400" style="fill:#294451">t + Δt</text><text x="219" y="110" text-anchor="middle" font-size="15" font-weight="400" style="fill:#294451">t + 2Δt</text><text x="136" y="142" text-anchor="middle" font-size="18" font-weight="400" style="fill:#245b78">解码后的帧序列</text><line x1="18" y1="215" x2="255" y2="215" stroke="#9bb4c0" stroke-width="1"/><path d="M18 202 C45 155,68 212,92 178 S141 209,171 182 S215 170,255 184" fill="none" stroke="#238b8e" stroke-width="3"/><circle cx="18" cy="202" r="4" fill="#238b8e"/><circle cx="92" cy="178" r="4" fill="#238b8e"/><circle cx="171" cy="182" r="4" fill="#238b8e"/><circle cx="255" cy="184" r="4" fill="#238b8e"/><text x="136" y="241" text-anchor="middle" font-size="17" font-weight="400" style="fill:#294451">对齐的动作序列（示意）</text></svg><span class="zoom-hint">↗ 放大示意图</span></button></div><p>将表示还原为可用输出，<br><b>按时间索引配对</b>并保存。</p><div class="diagram-label">统计单位：1 条输出轨迹<br>其他独立策略调用另计</div></div></div><div class="handoff formula-handoff"><div class="label">交给负载模型</div><div class="body"><div class="formula">C<sub>traj</sub> = ∑<sub>r=1…R</sub> (C<sub>enc,r</sub> + S<sub>r</sub> × C<sub>step,r</sub> + C<sub>dec,r</sub>) + C<sub>post</sub></div><div class="variables"><span><b>R</b> 生成段数</span><span><b>Sᵣ</b> 每段采样步数</span><span><b>C</b> 各阶段 FLOPs</span><span><b>并发</b> 另用于容量与吞吐</span></div></div></div><footer><span>原创通用机制示意 · 不对应具体系统配置、层数、频率或实测结果</span><span>算力负载洞察 · 前置推导 <b>02</b></span></footer></section><section class="slide " id="slide3" aria-label="第3页 P6 · 优化与成本迁移"><div class="eyebrow"><span>前置推导 / P6 · 优化与成本迁移</span><div class="steps"><span class="">路线</span><i>→</i><span class="">机制</span><i>→</i><span class="current">优化</span><i>→</i><span>负载建模</span></div></div><h1><em>优化机制｜</em>减少计算或等待，都要核算新增开销</h1><div class="rule"></div><div class="insight fullwidth-insight">三类通用手段对应不同问题：<b>减少重复迭代、复用有效状态、让执行阶段重叠</b>。图示不预设实际收益。</div><div class="main optimizations"><div class="panel opt"><h2>减少迭代</h2><div class="en">Fewer iterative updates</div><div class="change">改变求解策略 → 减少重复模型调用</div><div class="fig-wrap"><button class="figure" data-title="迭代链示意：更少重复更新，不代表实际采样步数或加速比例" aria-label="放大：迭代链示意：更少重复更新，不代表实际采样步数或加速比例"><svg xmlns="http://www.w3.org/2000/svg" width="440" height="250" viewBox="0 0 440 250" role="img" aria-labelledby="title desc">
 <title id="few-step-title">减少重复迭代的通用示意</title><desc id="few-step-desc">上方较多模型调用，下方较少模型调用。每个环形节点表示一次迭代；示意不代表真实加速比例。</desc>
 <defs><marker id="few-step-arrow" markerWidth="6" markerHeight="6" refX="5" refY="3" orient="auto"><path d="M0 0L6 3L0 6Z" fill="#81929c"/></marker></defs>

diff --git a/references/visual-style.md b/references/visual-style.md
@@ -32,12 +32,13 @@
 
 ### 保密素材的原创替代
 
-仅在用户明确保密、限制引用或要求可分享版本时启用此边界，不能据此禁止所有普通资料的授权引用。
+仅在用户明确资料保密、限制原图引用或要求将保密材料改为可分享版本时启用此边界，不能据此禁止所有普通资料的授权引用。
 
 - 从本页需要解释的通用问题重新设计图形：用原创任务场景、模型角色、抽象数据、循环和时间关系说明机制。可用原生SVG、可编辑图形或独立创作插画；保留论证作用，不逐块描摹内部图的构图、标注和连线。
+- 当任务仅要求替换直接引用的图片时，保留既有主题配色、标题层级、字体和页面框架，让原创图适配现有主题；未经用户要求，不连带改变整页风格。用户明确要求改主题时，按其指定范围调整。
 - 内部截图、实物照片、未公开配置、编号、人员、数据与具体实验结果不能进入交付。去Logo、去水印、换色、换字体、模糊处理或按原图描边，不构成内容脱敏。
 - 如需公开证据，另行确认公开来源及其使用范围；不能因内部图看似来自论文便默认可用。没有适用证据时，画机制示意并标注“示意，非性能实测”，用符号及条件代替内部数值，不编造替代曲线。
-- 清理交付文件的实际资产：不得保留隐藏图层、嵌入原图/base64、缩略图、原稿整页回看、附件或可解出的内部图片。随skill发布的示例和图包遵循相同规则；原始保密资料留在用户指定的资料位置，不作为分发资产。
+- 清理交付文件的实际资产：保密原图不得留在隐藏图层、base64、缩略图、原稿整页回看、附件或其他可恢复的媒体中。随skill发布的示例和图包遵循相同规则；原始保密资料留在用户指定的资料位置，不作为分发资产。
 - 通用页型可继续使用判断标题、主图、变量说明及负载含义区；原创图的表达结构与视觉细节独立设计。换风格是表达选择，不能替代对内容和资产的检查。
 
 ## 建议设计参数
